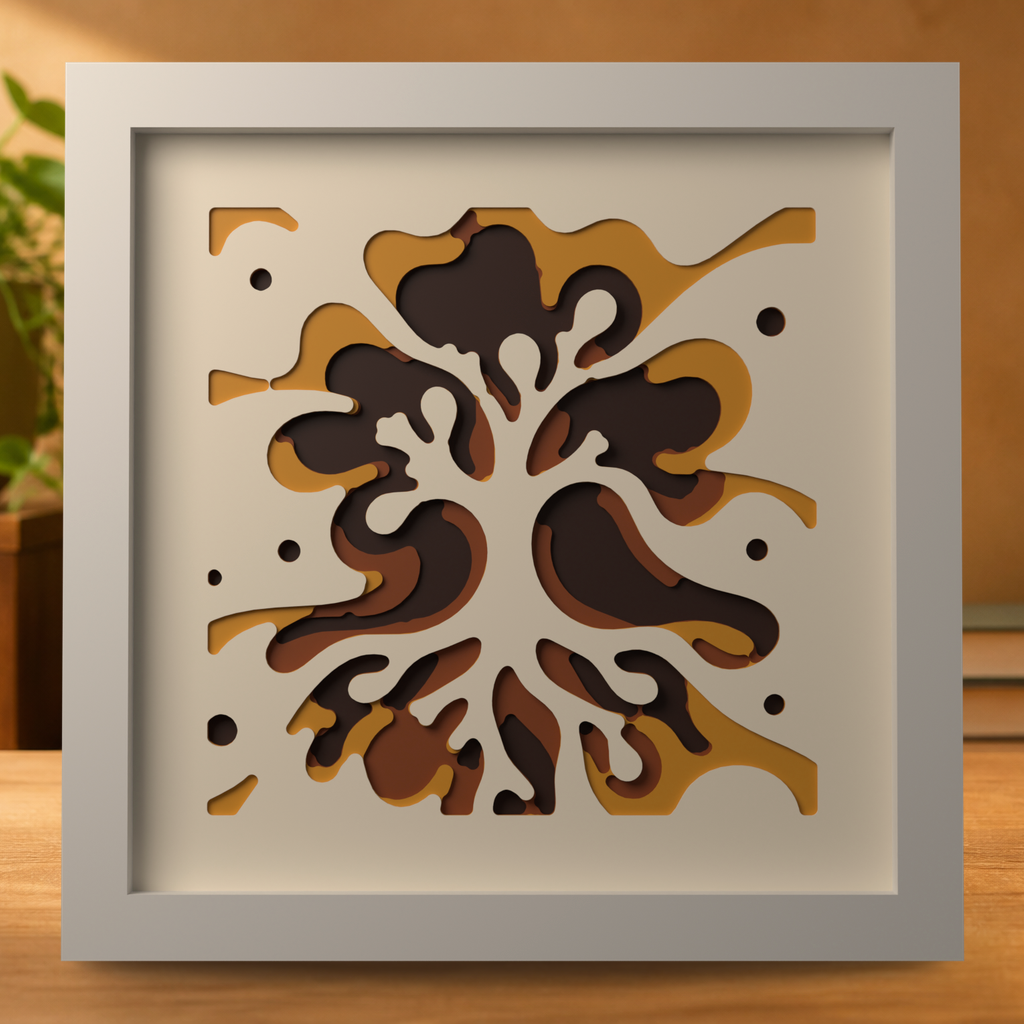
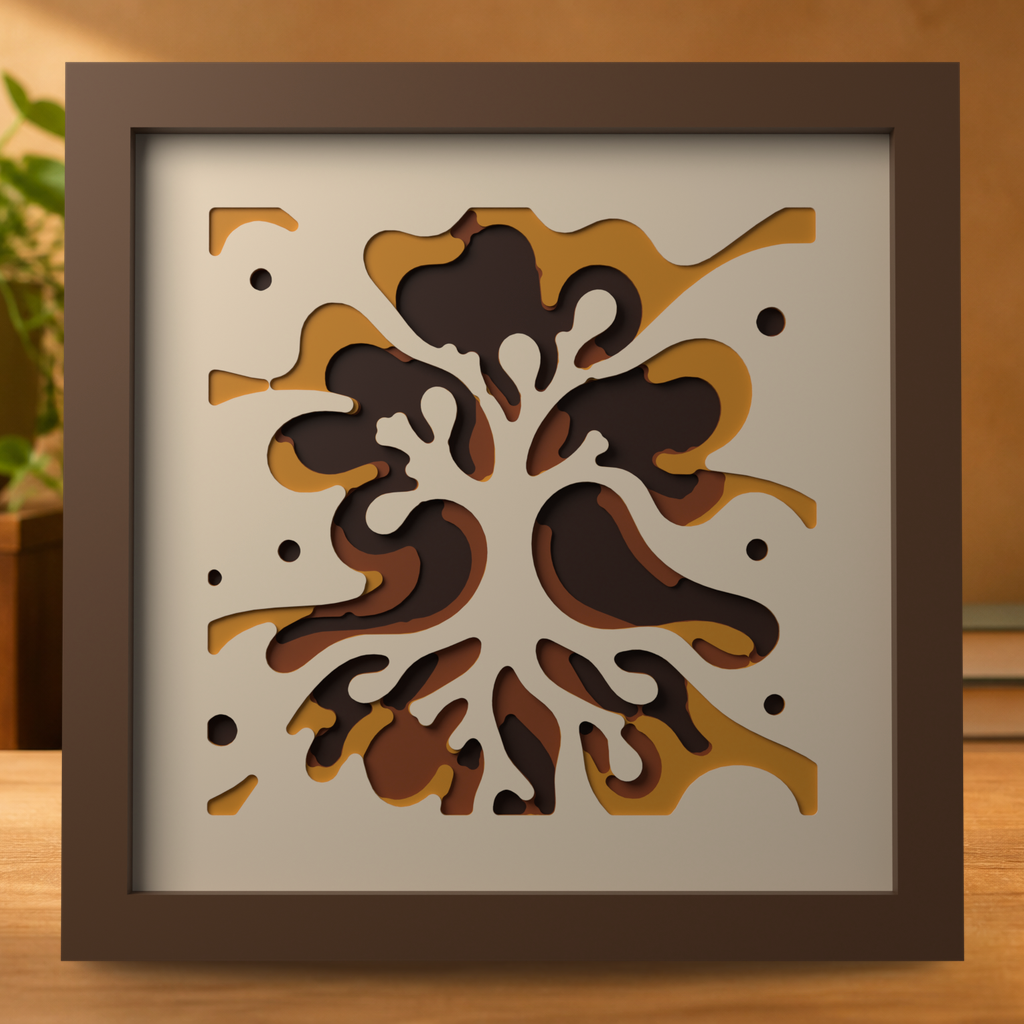
Eevee a videokockakhoz + temankenti keret es enterior
A Cycles 144 kockaja videonkent HAROM ora volt (otre tizenot). Ezek lapos
arnyalasu papirsikok egy kulcsfennyel: Eevee masodpercek alatt rendereli,
es 1080 px-en a kulonbseg lathatatlan - sot telitettebb.
A fa keret azert nem ervenyesult, mert a grain node-fa felulirta az
alapszint; explicit slot-hozzarendeles es grain nelkul mukodik.

Changed region(s): [[0.0625, 0.0625, 0.9688, 0.9375]]

diff --git a/product/render_blender.py b/product/render_blender.py
@@ -487,9 +487,13 @@ if FRAME:
     bpy.context.view_layer.objects.active = shell
     bpy.ops.object.modifier_apply(modifier="cut")
     bpy.data.objects.remove(hole, do_unlink=True)
-    fc = (0.20, 0.11, 0.055, 1) if WOODFRAME else (0.94, 0.933, 0.920, 1)
-    shell.data.materials.append(wood("frame", fc, 0.55 if WOODFRAME else 0.42,
-                                     grain=WOODFRAME))
+    fc = (0.115, 0.052, 0.022, 1) if WOODFRAME else (0.94, 0.933, 0.920, 1)
+    _fmat = wood("frame", fc, 0.5, grain=False)
+    shell.data.materials.clear()
+    shell.data.materials.append(_fmat)
+    for _sl in shell.material_slots:
+        _sl.material = _fmat
+    print(f"[render] keret: {'dio' if WOODFRAME else 'feher'}")
     print(f"[render] mu={ART:.4f} keret-nyilas={inner*2:.4f} "
           f"kitoltes={ART/(inner*2)*100:.0f}%")
     FRAME_OBJS.append(shell)
@@ -656,6 +660,18 @@ else:
 
 
 if ORBIT:
+    # 144 Cycles frames took three hours per video - fifteen hours for five.
+    # These are flat-shaded paper planes with one key light: Eevee renders them
+    # in seconds and the difference is invisible at 1080 px.
+    try:
+        scene.render.engine = "BLENDER_EEVEE_NEXT"
+    except TypeError:
+        scene.render.engine = "BLENDER_EEVEE"
+    es = scene.eevee
+    for attr, val in (("taa_render_samples", 24), ("use_shadows", True),
+                      ("use_raytracing", True), ("use_gtao", True)):
+        if hasattr(es, attr):
+            setattr(es, attr, val)
     # a short left-right arc reads as "turning it in your hand" and shows the
     # layer edges - a static hero cannot show depth, which is the whole product
     import os
